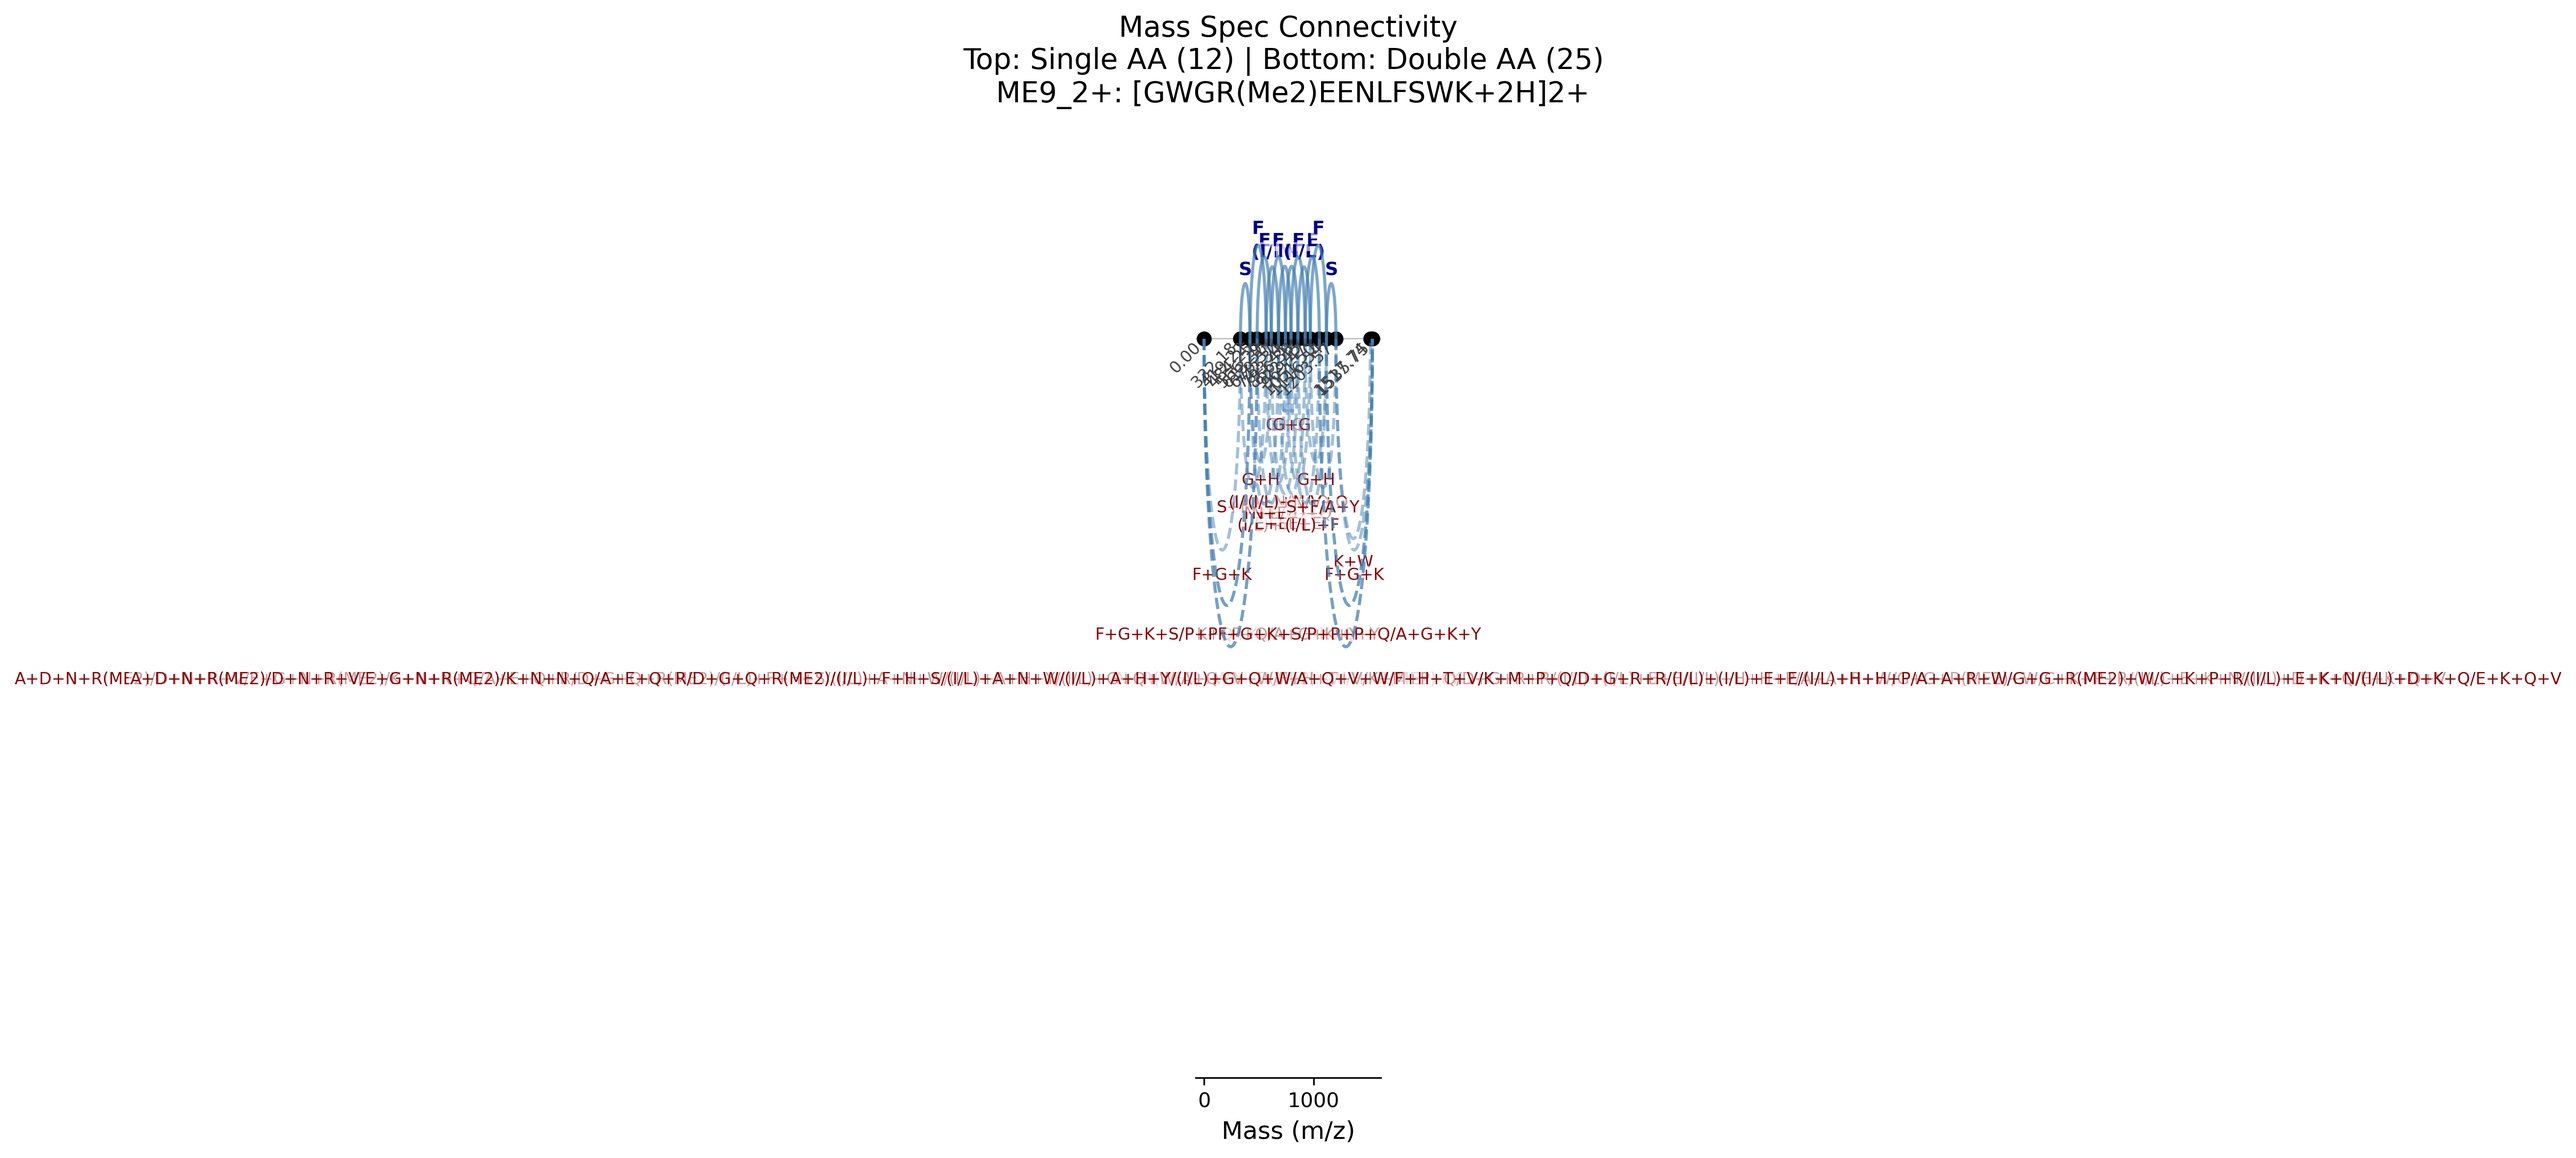
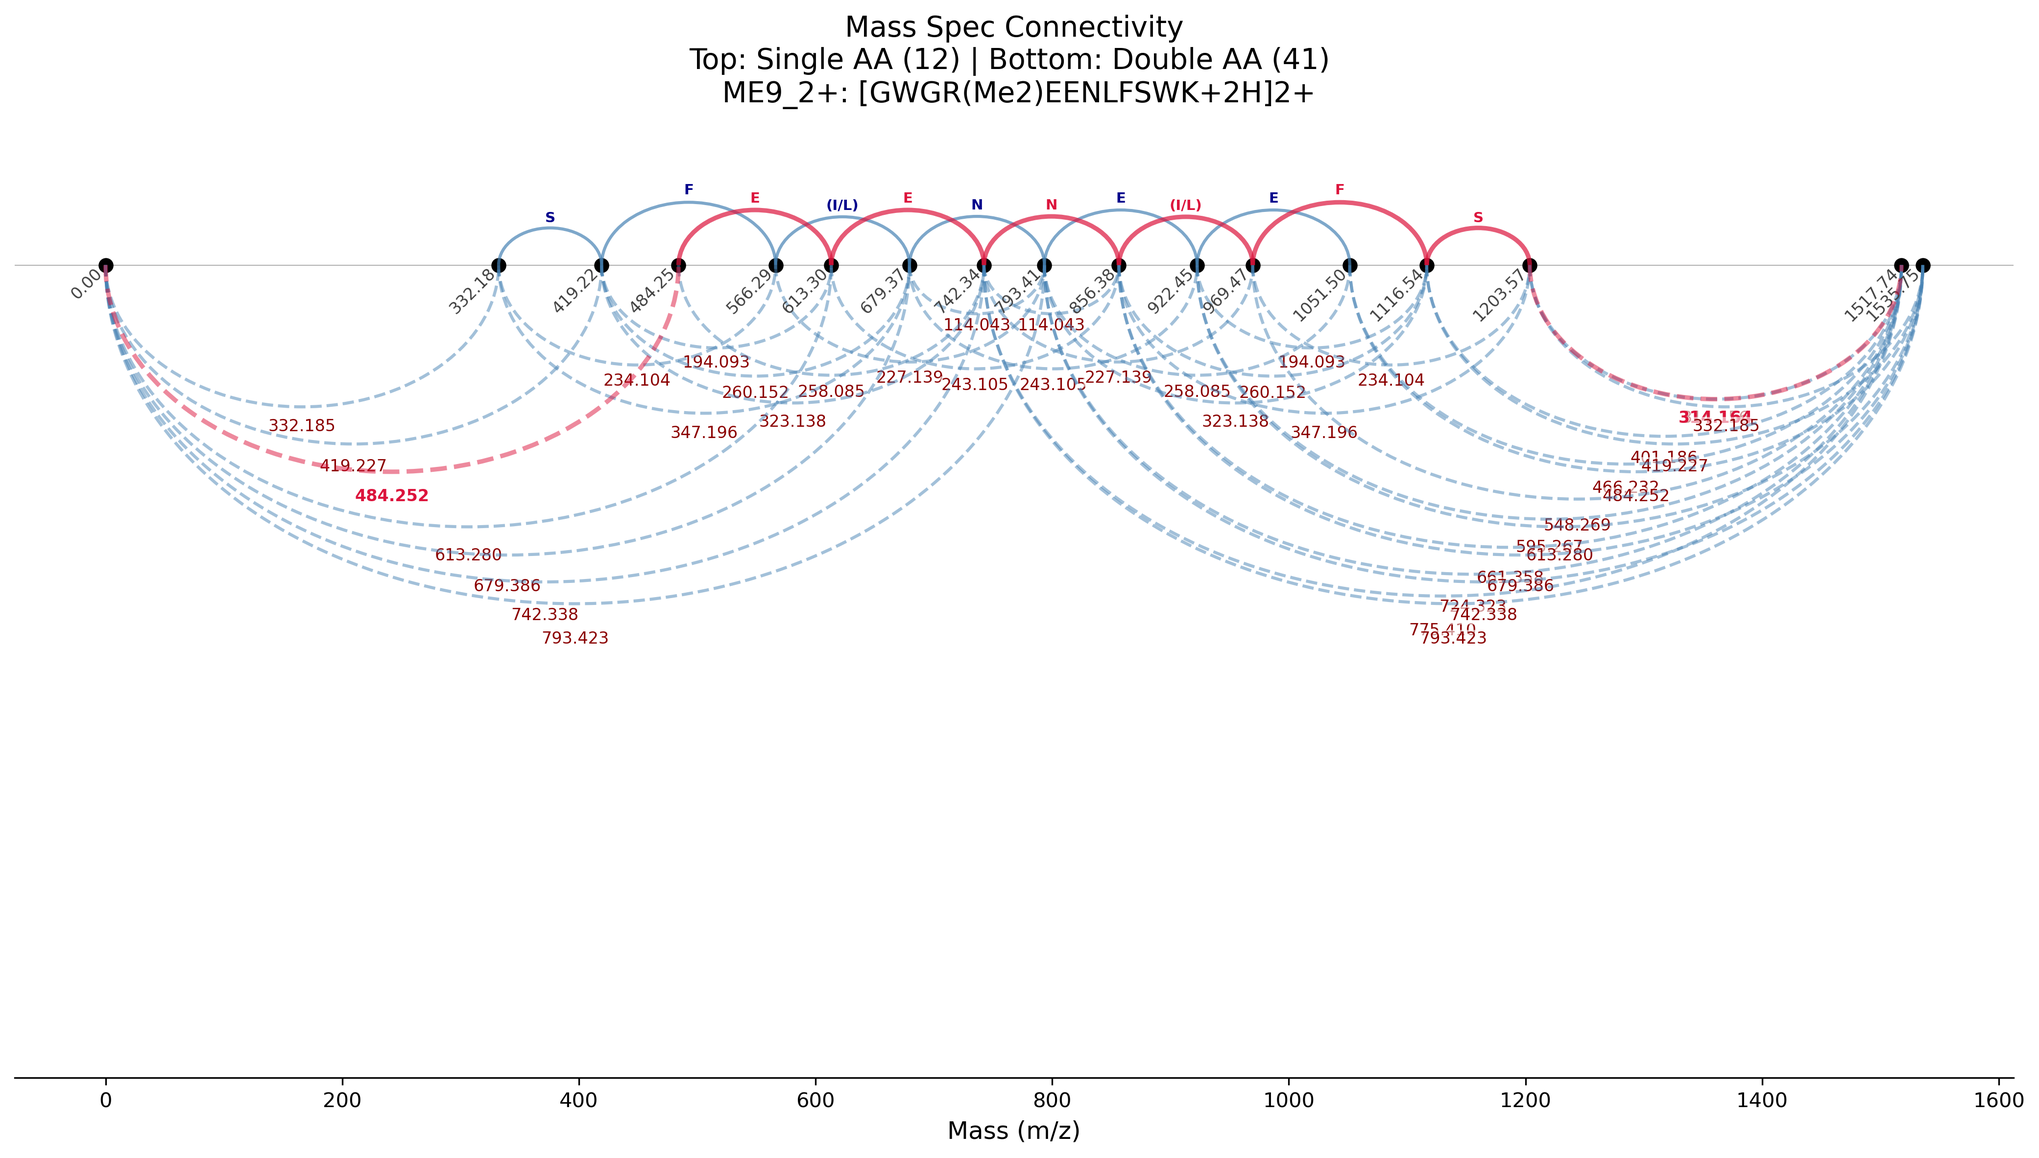
.

diff --git a/vis_connect/connected_graph.py b/vis_connect/connected_graph.py
@@ -136,7 +136,7 @@ def build_penta_aa_masses(AA_MASSES: dict) -> dict:
     penta = {}
     keys = sorted(AA_MASSES.keys())   # deterministic order
     
-    for aa1, aa2, aa3, aa4, aa5, in combinations_with_replacement(keys, 4):
+    for aa1, aa2, aa3, aa4, aa5, in combinations_with_replacement(keys, 5):
         label = f"{aa1}+{aa2}+{aa3}+{aa4}+{aa5}"
         penta[label] = (
             AA_MASSES[aa1] +
@@ -155,7 +155,7 @@ def build_six_aa_masses(AA_MASSES: dict) -> dict:
     six = {}
     keys = sorted(AA_MASSES.keys())   # deterministic order
     
-    for aa1, aa2, aa3, aa4, aa5,aa6 in combinations_with_replacement(keys, 4):
+    for aa1, aa2, aa3, aa4, aa5,aa6 in combinations_with_replacement(keys, 6):
         label = f"{aa1}+{aa2}+{aa3}+{aa4}+{aa5}+{aa6}"
         six[label] = (
             AA_MASSES[aa1] +
@@ -177,10 +177,10 @@ PENTA_AA_MASSES = build_penta_aa_masses(AA_MASSES)
 def merge_dicts_by_value_threshold(*dicts: Dict[str, float], threshold: float):
     """
     Merge multiple dictionaries by value similarity.
-    
-    Returns:
-    - merged_values_dict: {str(mean_value): mean_value}
-    - key_mapping_dict:   {str(mean_value): [original_keys]}
+
+    Returns two dicts:
+      - merged_values_dict: {str(mean_value_rounded_3_decimals): mean_value_full_precision}
+      - key_mapping_dict:   {str(mean_value_rounded_3_decimals): [original_keys]}
     """
 
     if threshold < 0:
@@ -217,7 +217,7 @@ def merge_dicts_by_value_threshold(*dicts: Dict[str, float], threshold: float):
             else:
                 # finalize previous group
                 mean_val = sum(group_vals) / len(group_vals)
-                mean_str = f"{mean_val:.6f}"   # standard string format
+                mean_str = f"{mean_val:.3f}"  # rounded to 3 decimals
 
                 merged_values_dict[mean_str] = mean_val
                 key_mapping_dict[mean_str] = group_keys.copy()
@@ -229,12 +229,14 @@ def merge_dicts_by_value_threshold(*dicts: Dict[str, float], threshold: float):
 
     # finalize last group
     mean_val = sum(group_vals) / len(group_vals)
-    mean_str = f"{mean_val:.6f}"
+    mean_str = f"{mean_val:.3f}"
 
     merged_values_dict[mean_str] = mean_val
     key_mapping_dict[mean_str] = group_keys.copy()
 
     return merged_values_dict, key_mapping_dict
+
+
 
 
 def cluster_mass_dict(
@@ -300,26 +302,32 @@ def cluster_mass_dict(
 
     return merged_dict, inverse_map, groups
 
+
+terminal_dict, terminal_map_dict = merge_dicts_by_value_threshold(TRIPLE_AA_MASSES, QUADRA_AA_MASSES, PENTA_AA_MASSES, threshold=0.05)
+double_edge_dict, double_edge_map_dict = merge_dicts_by_value_threshold(DOUBLE_AA_MASSES, threshold=0.05)
     
 def find_all_connections(peaks, tolerance=0.005, merge_double = False, terminal_tolerance = 0.005):
     """
     Identifies pairs of peaks separated by single AA mass OR double AA mass.
     Returns two separate lists of connections: (single_conns, double_conns)
     """
+    mass_aa_map = {}
     peaks = sorted(peaks)
     single_conns = []
     double_conns = []
-    triple_conns = []
-    quodra_conns = []
+    terminal_conns = []
+    #triple_conns = []
+    #quodra_conns = []
     if merge_double:
-        double_dict, inv_map, groups = cluster_mass_dict(DOUBLE_AA_MASSES, threshold=tolerance, method="mean")
-        triple_dict, inv_map, groups = cluster_mass_dict(TRIPLE_AA_MASSES, threshold=terminal_tolerance, method="mean")
-        quodra_dict, inv_map, groups = cluster_mass_dict(QUADRA_AA_MASSES, threshold=terminal_tolerance, method="mean")
+        double_dict = double_edge_dict
+        #double_dict, inv_map, groups = cluster_mass_dict(DOUBLE_AA_MASSES, threshold=tolerance, method="mean")
+        #triple_dict, inv_map, groups = cluster_mass_dict(TRIPLE_AA_MASSES, threshold=terminal_tolerance, method="mean")
+        #quodra_dict, inv_map, groups = cluster_mass_dict(QUADRA_AA_MASSES, threshold=terminal_tolerance, method="mean")
         
     else:
         double_dict = DOUBLE_AA_MASSES
-        triple_dict = TRIPLE_AA_MASSES
-        quodra_dict = QUADRA_AA_MASSES
+        #triple_dict = TRIPLE_AA_MASSES
+        #quodra_dict = QUADRA_AA_MASSES
     for i in range(len(peaks)):
         for j in range(i + 1, len(peaks)):
             mass_diff = peaks[j] - peaks[i]
@@ -337,23 +345,39 @@ def find_all_connections(peaks, tolerance=0.005, merge_double = False, terminal_
             # 2. Check for Double AA matches
             for label, double_mass in double_dict.items():
                  if abs(mass_diff - double_mass) <= tolerance:
+                    
+                    if merge_double:
+                        if label in mass_aa_map:
+                            mass_aa_map[label] += double_edge_map_dict[label] 
+                        else:
+                            mass_aa_map[label] = double_edge_map_dict[label] 
+                    
+                    else: 
+                        label
+                    
                     double_conns.append((peaks[i], peaks[j], label))
             
             
             ## the triple connection only exist from 0 or to entire_pepmass
-            if i == 0 or j == len(peaks) - 1:
-                for label, triple_mass in triple_dict.items():
+            if i == 0 or j == len(peaks) - 1 or j==len(peaks)-2:
+                for label, triple_mass in terminal_dict.items():
                     if abs(mass_diff - triple_mass) <= tolerance:
-                        triple_conns.append((peaks[i], peaks[j], label))
+                        
+                        if label in mass_aa_map:
+                            mass_aa_map[label] += terminal_map_dict[label]
+                        else:
+                            mass_aa_map[label] = terminal_map_dict[label]
+                        
+                        terminal_conns.append((peaks[i], peaks[j], label))
                     
             ## the quadra connection only exist from 0 or to entire_pepmass
-            if i == 0 or j == len(peaks) - 1:
-                for label, quodra_mass in quodra_dict.items():
-                    
-                    if abs(mass_diff - quodra_mass) <= tolerance:
-                        quodra_conns.append((peaks[i], peaks[j], label))
+            #if i == 0 or j == len(peaks) - 1:
+            #    for label, quodra_mass in quodra_dict.items():
+            #        
+            #        if abs(mass_diff - quodra_mass) <= tolerance:
+            #            quodra_conns.append((peaks[i], peaks[j], label))
 
-    return single_conns, double_conns, triple_conns, quodra_conns
+    return single_conns, double_conns, terminal_conns, mass_aa_map#triple_conns, quodra_conns
 
 
 def two_g(the_string):
@@ -474,7 +498,7 @@ def plot_complex_arc_graph(peaks, single_conns, double_conns, highlight_sequence
         ax.add_patch(arc)
 
         ax.text(midpoint, (height / 2) + (width * 0.02), label,
-                ha='center', va='bottom', fontsize=9, color=text_color, weight=text_weight,
+                ha='center', va='bottom', fontsize=7, color=text_color, weight=text_weight,
                 bbox=dict(facecolor='white', edgecolor='none', alpha=0.6, pad=0.5))
 
     # --- Plot DOUBLE connections (MODIFIED to use highlight_arc_set) ---
@@ -779,7 +803,7 @@ def find_paths_above_threshold(start_peak, all_connections,
 
 
 if __name__ == "__main__":
-    data = 'ME9_3+'
+    data = 'ME9_2+'
     my_peaks, sequence, pep = build_mass_list(data)
     pep_mass = pep.pep_mass
     pep_charge = 2 if int(pep.charge[0]) == 2 else 3
@@ -789,14 +813,14 @@ if __name__ == "__main__":
     my_peaks = [0] + my_peaks +[pep_mass - proton*pep_charge - H2O]+[pep_mass - proton*pep_charge]
     my_peaks = merge_close_values(my_peaks, threshold=0.01)
     #print(my_peaks)
-    s_conns, d_conns, t_conns, q_conns = find_all_connections(my_peaks, tolerance=0.008  , merge_double=True)
+    s_conns, d_conns, t_conns, mass_aa_map= find_all_connections(my_peaks, tolerance=0.02  , merge_double=True)
     
-    print('q_cons:', q_conns)
 
-    d_conns = d_conns + t_conns + q_conns
+
+    d_conns = d_conns + t_conns
 
     # Define the sequence you want to find
-    seq_to_find = ['E+Q+S/E+N+T/D+Q+T/(I/L)+E(nitro)+G/A+E(nitro)+V', 'Y', 'G', 'F', 'Q', 'N', 'A', '(I/L)', '(I/L)', 'V+R'] 
+    seq_to_find = ['484.252', 'E', 'E', 'N', '(I/L)', 'F', 'S', '314.164'] 
     # Call WITH the new argument
     plot_complex_arc_graph(my_peaks, s_conns, d_conns, highlight_sequence=seq_to_find, seq=sequence, show_graph=False, save_path=f'vis_connect/connected_graph/{data}.png')
     
@@ -815,6 +839,7 @@ if __name__ == "__main__":
         print("No paths found from this starting peak.")
     '''
     min_length = 7
+    over_length = 8
     
     good_paths = find_paths_above_threshold(
     start_from_peak, 
@@ -834,20 +859,44 @@ if __name__ == "__main__":
     else:
         print("No paths found from this starting peak.")
     
-    
+    mass_aa_map = pd.Series(mass_aa_map).sort_index()
+    print(mass_aa_map)
+    mass_aa_map.to_csv(f"vis_connect/connected_graph_map/{data}_map.txt", index=True, header=False)
+
     
     '''
     result = []
+    good_result = []
+    over_rated_result = []
     min_length = 0
-    for i in np.arange(0.01, 0.11, 0.01):
-        s_conns, d_conns, t_conns, q_conns = find_all_connections(my_peaks, tolerance=i, merge_double=True)
-        all_conns = s_conns + d_conns + t_conns + q_conns
-        good_paths = find_paths_above_threshold(
+    good_length = 7
+    over_length = 8
+    for i in np.arange(0.01, 0.09, 0.01):
+        s_conns, d_conns, t_conns, mass_aa_map = find_all_connections(my_peaks, tolerance=i, merge_double=True)
+        all_conns = s_conns + d_conns + t_conns
+        
+        all_paths = find_paths_above_threshold(
             start_from_peak, 
             all_conns, 
             get_path_length,  # The scoring function
             min_length        # The threshold
             )
-        result.append(len(good_paths))
+        good_paths = find_paths_above_threshold(
+            start_from_peak, 
+            all_conns, 
+            get_path_length,  # The scoring function
+            good_length        # The threshold
+            )
+        over_paths = find_paths_above_threshold(
+            start_from_peak, 
+            all_conns, 
+            get_path_length,  # The scoring function
+            over_length        # The threshold
+            )
+        result.append(len(all_paths))
+        good_result.append(len(good_paths))
+        over_rated_result.append(len(over_paths))
     print(result)
+    print(good_result)
+    print(over_rated_result)
     '''
